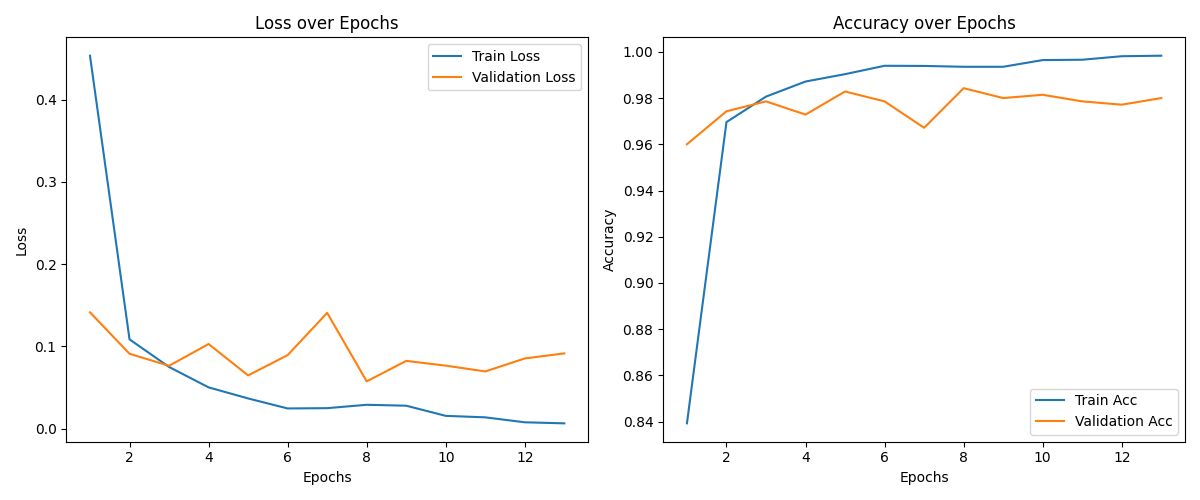
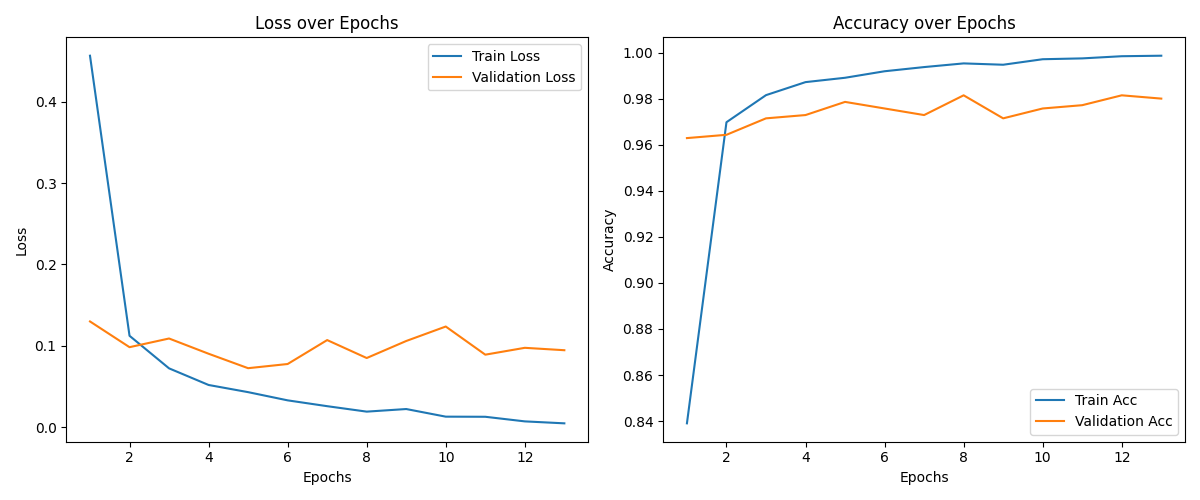
[Phase 6] Add Evaluation Notebook

diff --git a/temp/generate_eval_nb.py b/temp/generate_eval_nb.py
@@ -1,0 +1,116 @@
+import os
+import nbformat as nbf
+
+nb = nbf.v4.new_notebook()
+
+# Setup cell
+cell_setup = """import os
+import json
+import torch
+import numpy as np
+import matplotlib.pyplot as plt
+import seaborn as sns
+from sklearn.metrics import classification_report, confusion_matrix
+import sys
+
+# Setup paths
+sys.path.append(os.path.abspath("../src"))
+from dataset import create_dataloaders
+from model import IntentClassifier
+
+device = torch.device('cuda' if torch.cuda.is_available() else 'mps' if torch.backends.mps.is_available() else 'cpu')
+print(f"Using device: {device}")
+"""
+
+# Load Model cell
+cell_model = """# Load Checkpoint and Config
+checkpoint = torch.load("../models/best_model.pt", map_location=device, weights_only=False)
+config = checkpoint["hyperparameters"]
+print(f"Loaded model from epoch {checkpoint['epoch']} with validation accuracy {checkpoint['val_accuracy']*100:.2f}%")
+
+# Load Data maps
+with open("../data/processed/word2idx.json", "r") as f:
+    word2idx = json.load(f)
+with open("../data/processed/idx2label.json", "r") as f:
+    idx2label = {int(k): v for k, v in json.load(f).items()}
+label2idx = {v: k for k, v in idx2label.items()}
+
+# Initialize model
+model = IntentClassifier(
+    vocab_size=config["vocab_size"],
+    embed_dim=config["embed_dim"],
+    hidden_size=config["hidden_size"],
+    num_layers=config["num_layers"],
+    num_classes=len(label2idx),
+    dropout=config["dropout"],
+    bidirectional=config["bidirectional"],
+    pad_idx=word2idx.get("<PAD>", 0)
+).to(device)
+
+model.load_state_dict(checkpoint['model_state_dict'])
+model.eval()
+print("Model loaded successfully.")
+"""
+
+# Evaluate cell
+cell_eval = """# Run Evaluation on Test Set
+_, val_loader, _, _ = create_dataloaders(
+    train_dir="../data/raw/train",
+    val_dir="../data/raw/test",
+    word2idx=word2idx,
+    label2idx=label2idx,
+    max_seq_len=config["max_seq_len"],
+    batch_size=config["batch_size"]
+)
+
+all_preds = []
+all_labels = []
+
+with torch.no_grad():
+    for texts, labels in val_loader:
+        texts, labels = texts.to(device), labels.to(device)
+        logits = model(texts)
+        preds = torch.argmax(logits, dim=1)
+        
+        all_preds.extend(preds.cpu().numpy())
+        all_labels.extend(labels.cpu().numpy())
+
+# Map indices to names
+target_names = [idx2label[i] for i in range(len(idx2label))]
+
+print("Classification Report:\\n")
+print(classification_report(all_labels, all_preds, target_names=target_names))
+"""
+
+# Confusion Matrix cell
+cell_plot = """# Plot Confusion Matrix
+cm = confusion_matrix(all_labels, all_preds)
+
+plt.figure(figsize=(10, 8))
+sns.heatmap(cm, annot=True, fmt='d', cmap='Blues',
+            xticklabels=target_names, yticklabels=target_names)
+plt.title('Confusion Matrix on Test Set')
+plt.xlabel('Predicted Intent')
+plt.ylabel('Actual Intent')
+plt.xticks(rotation=45, ha='right')
+plt.tight_layout()
+
+# Save plot
+os.makedirs("../assets", exist_ok=True)
+plt.savefig("../assets/confusion_matrix.png", dpi=300)
+plt.show()
+print("Confusion matrix saved to assets/confusion_matrix.png")
+"""
+
+nb['cells'] = [
+    nbf.v4.new_markdown_cell("# Phase 6 — Results Analysis"),
+    nbf.v4.new_code_cell(cell_setup),
+    nbf.v4.new_code_cell(cell_model),
+    nbf.v4.new_code_cell(cell_eval),
+    nbf.v4.new_code_cell(cell_plot)
+]
+
+os.makedirs("notebooks", exist_ok=True)
+with open('notebooks/03_results_analysis.ipynb', 'w') as f:
+    nbf.write(nb, f)
+print("Notebook generated!")